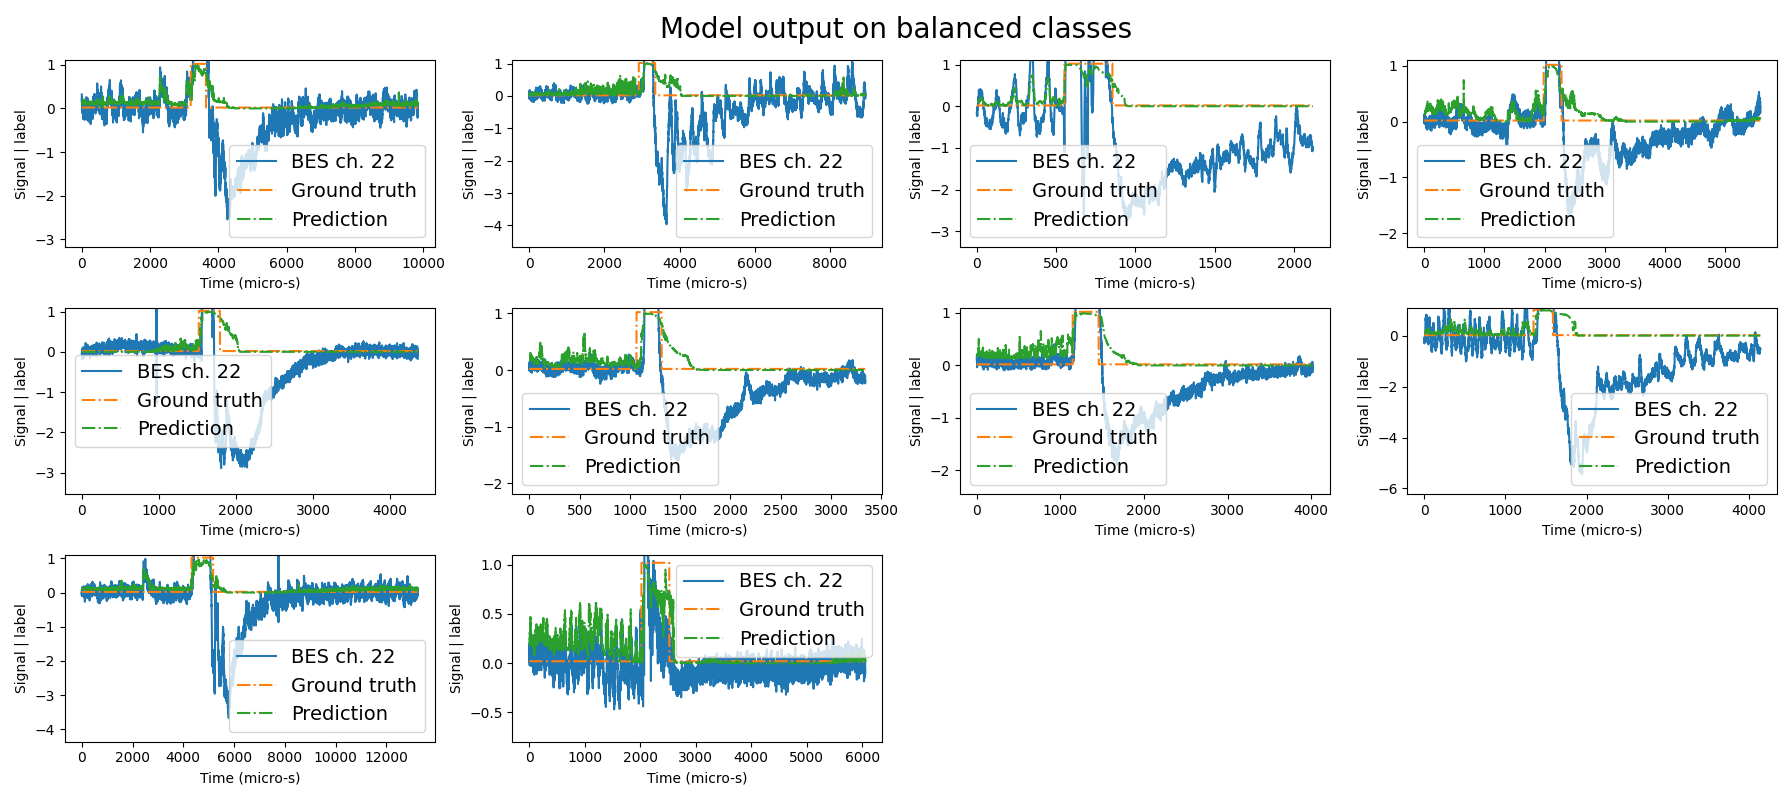
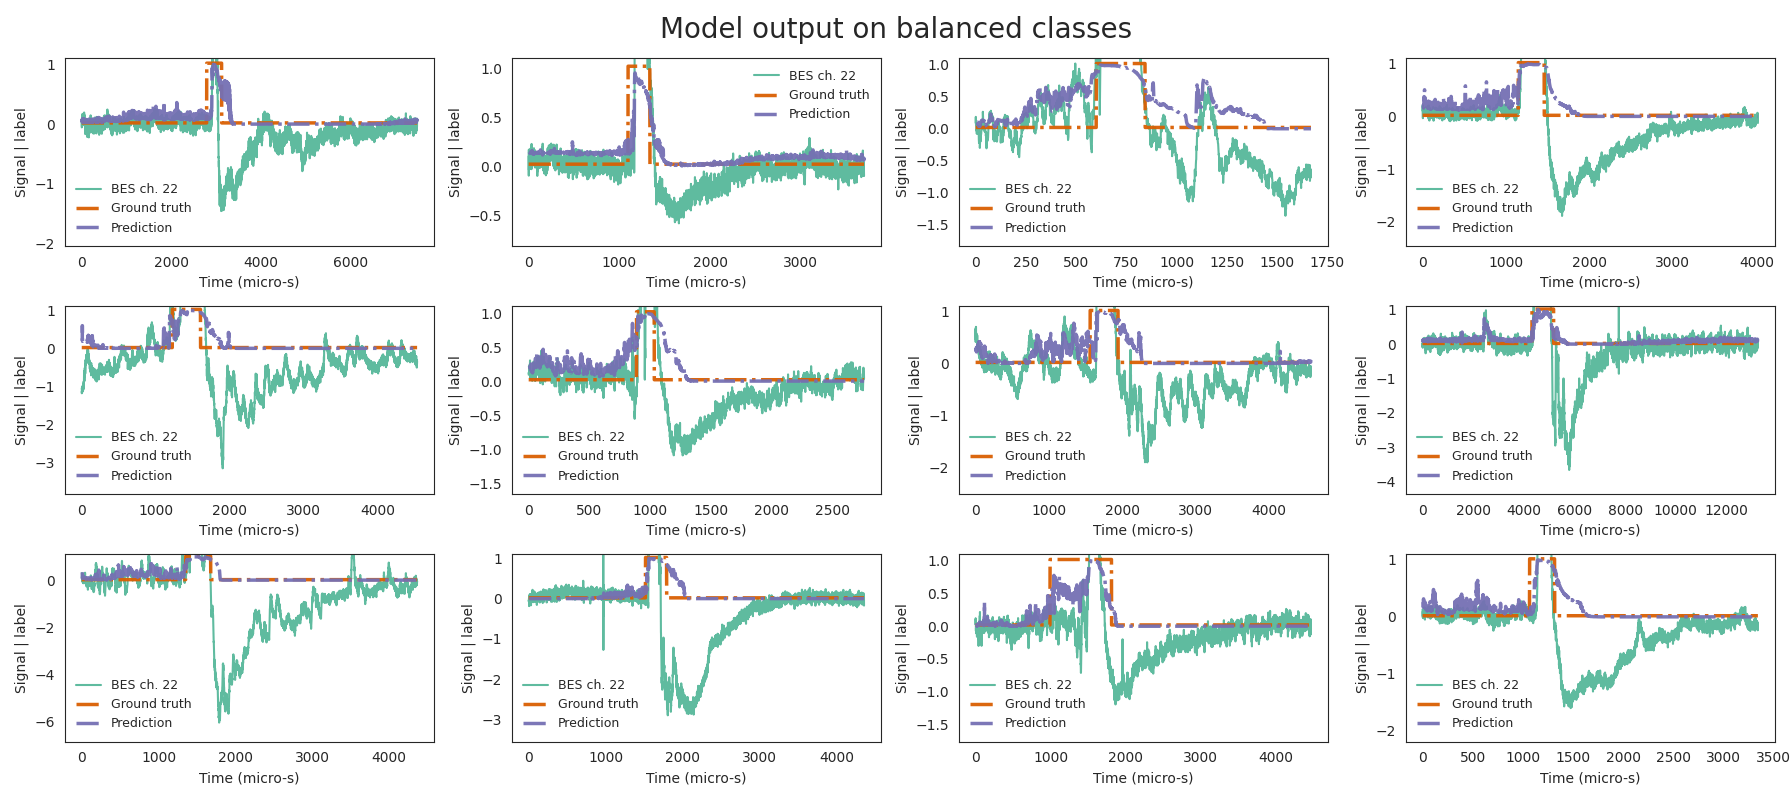
Visualize a few test outputs.

diff --git a/src/analyze.py b/src/analyze.py
@@ -2,15 +2,20 @@ import os
 import pickle
 
 import torch
-import matplotlib
 
-matplotlib.use("TkAgg")
+# import matplotlib
+
+# matplotlib.use("TkAgg")
 import numpy as np
 import matplotlib.pyplot as plt
-from sklearn.metrics import roc_auc_score
+import seaborn as sns
+from sklearn import metrics
 from tqdm import tqdm
 
-import utils, config, data, cnn_feature_model
+import config, data, cnn_feature_model
+
+sns.set_style("white")
+sns.set_palette("Dark2")
 
 
 def get_test_dataset(file_name: str):
@@ -33,7 +38,9 @@ def get_test_dataset(file_name: str):
     return data_attrs, test_dataset
 
 
-def plot(test_data, model, device):
+def plot(
+    test_data, model, device, plot_metrics: bool = False, threshold: float = 0.5
+):
     signals = test_data[0]
     labels = test_data[1]
     sample_indices = test_data[2]
@@ -74,8 +81,15 @@ def plot(test_data, model, device):
         )
         plt.subplot(3, 4, i + 1)
         elm_time = np.arange(elm_labels.size)
-        plt.plot(elm_time, elm_signals[:, 2, 6], label="BES ch. 22")
-        plt.plot(elm_time, elm_labels + 0.02, label="Ground truth", ls="-.")
+        plt.plot(elm_time, elm_signals[:, 2, 6], label="BES ch. 22", alpha=0.7)
+        plt.plot(
+            elm_time,
+            elm_labels + 0.02,
+            label="Ground truth",
+            ls="-.",
+            alpha=0.95,
+            lw=2.5,
+        )
         plt.plot(
             elm_time[
                 (config.signal_window_size + config.label_look_ahead - 1) :
@@ -83,11 +97,13 @@ def plot(test_data, model, device):
             predictions,
             label="Prediction",
             ls="-.",
+            alpha=0.95,
+            lw=2.5,
         )
         plt.xlabel("Time (micro-s)")
         plt.ylabel("Signal | label")
         plt.ylim([None, 1.1])
-        plt.legend(fontsize=14)
+        plt.legend(fontsize=9, frameon=False)
         plt.suptitle(f"Model output on {config.data_mode} classes", fontsize=20)
     plt.tight_layout()
     plt.show()
@@ -121,7 +137,7 @@ def model_predict(model, device, data_loader):
     predictions = np.concatenate(predictions)
     targets = np.concatenate(targets)
     print(predictions[:10], targets[:10])
-    print(roc_auc_score(targets, predictions))
+    print(metrics.roc_auc_score(targets, predictions))
 
 
 def main(fold=None, show_info=True, plot_data=False):

diff --git a/src/config.py b/src/config.py
@@ -10,8 +10,8 @@ model_dir = "models"
 seed = 15
 
 # set the data mode: balanced or unbalanced
-data_mode = "balanced"
-balance_classes = True
+data_mode = "unbalanced"
+balance_classes = False
 
 # fraction of whole data to be used as validation and test data
 fraction_validate = 0.2
